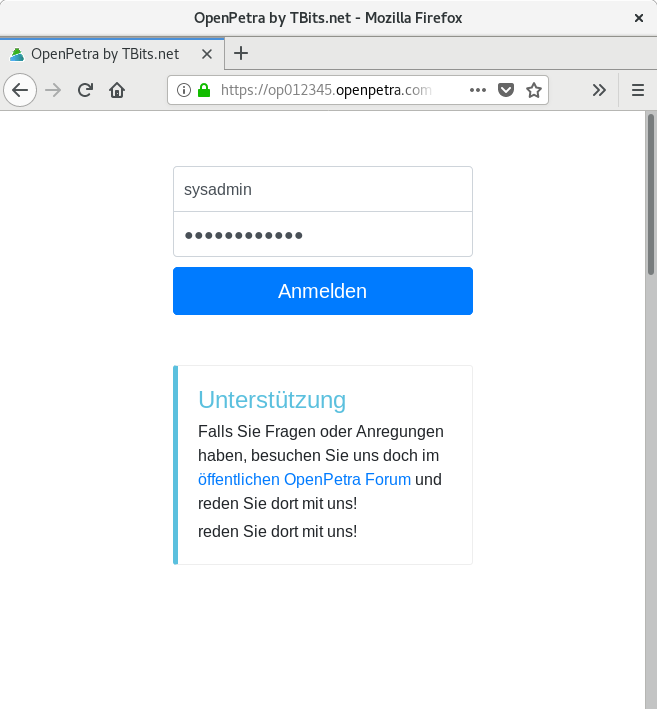
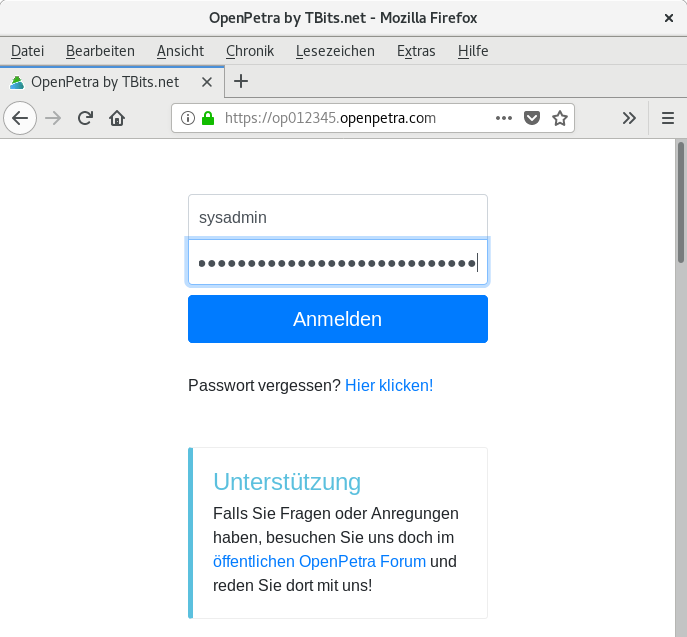
change password immediately. new login screen with passwort reminder.

Changed region(s): [[0.0, 0.0, 1.0, 0.9843], [0.7002, 0.2983, 0.7306, 0.3281]]

diff --git a/source/howtos/initial-instance-setup.rst b/source/howtos/initial-instance-setup.rst
@@ -24,14 +24,7 @@ Sie melden sich also im Webbrowser auf Ihrer OpenPetra Instanz als Benutzer SYSA
 Ändern des Passworts
 ====================
 
-Als nächster Schritt sollten Sie sofort das Passwort ändern, im Menü unter Einstellungen / Passwort ändern:
-
-.. _figure-menu_change_password:
-
-.. figure:: images/menu_change_password.png
-   :scale: 50%
-
-   Menü: Einstellungen / Passwort
+Als nächster Schritt sollten Sie sofort das Passwort ändern, es wird auch schon direkt die Seite *Einstellungen* / *Passwort ändern* angezeigt:
 
 Dazu müssen Sie nochmal das bereitgestellte Passwort eingeben, und dann können Sie ein eigenes Passwort eingeben:
 
